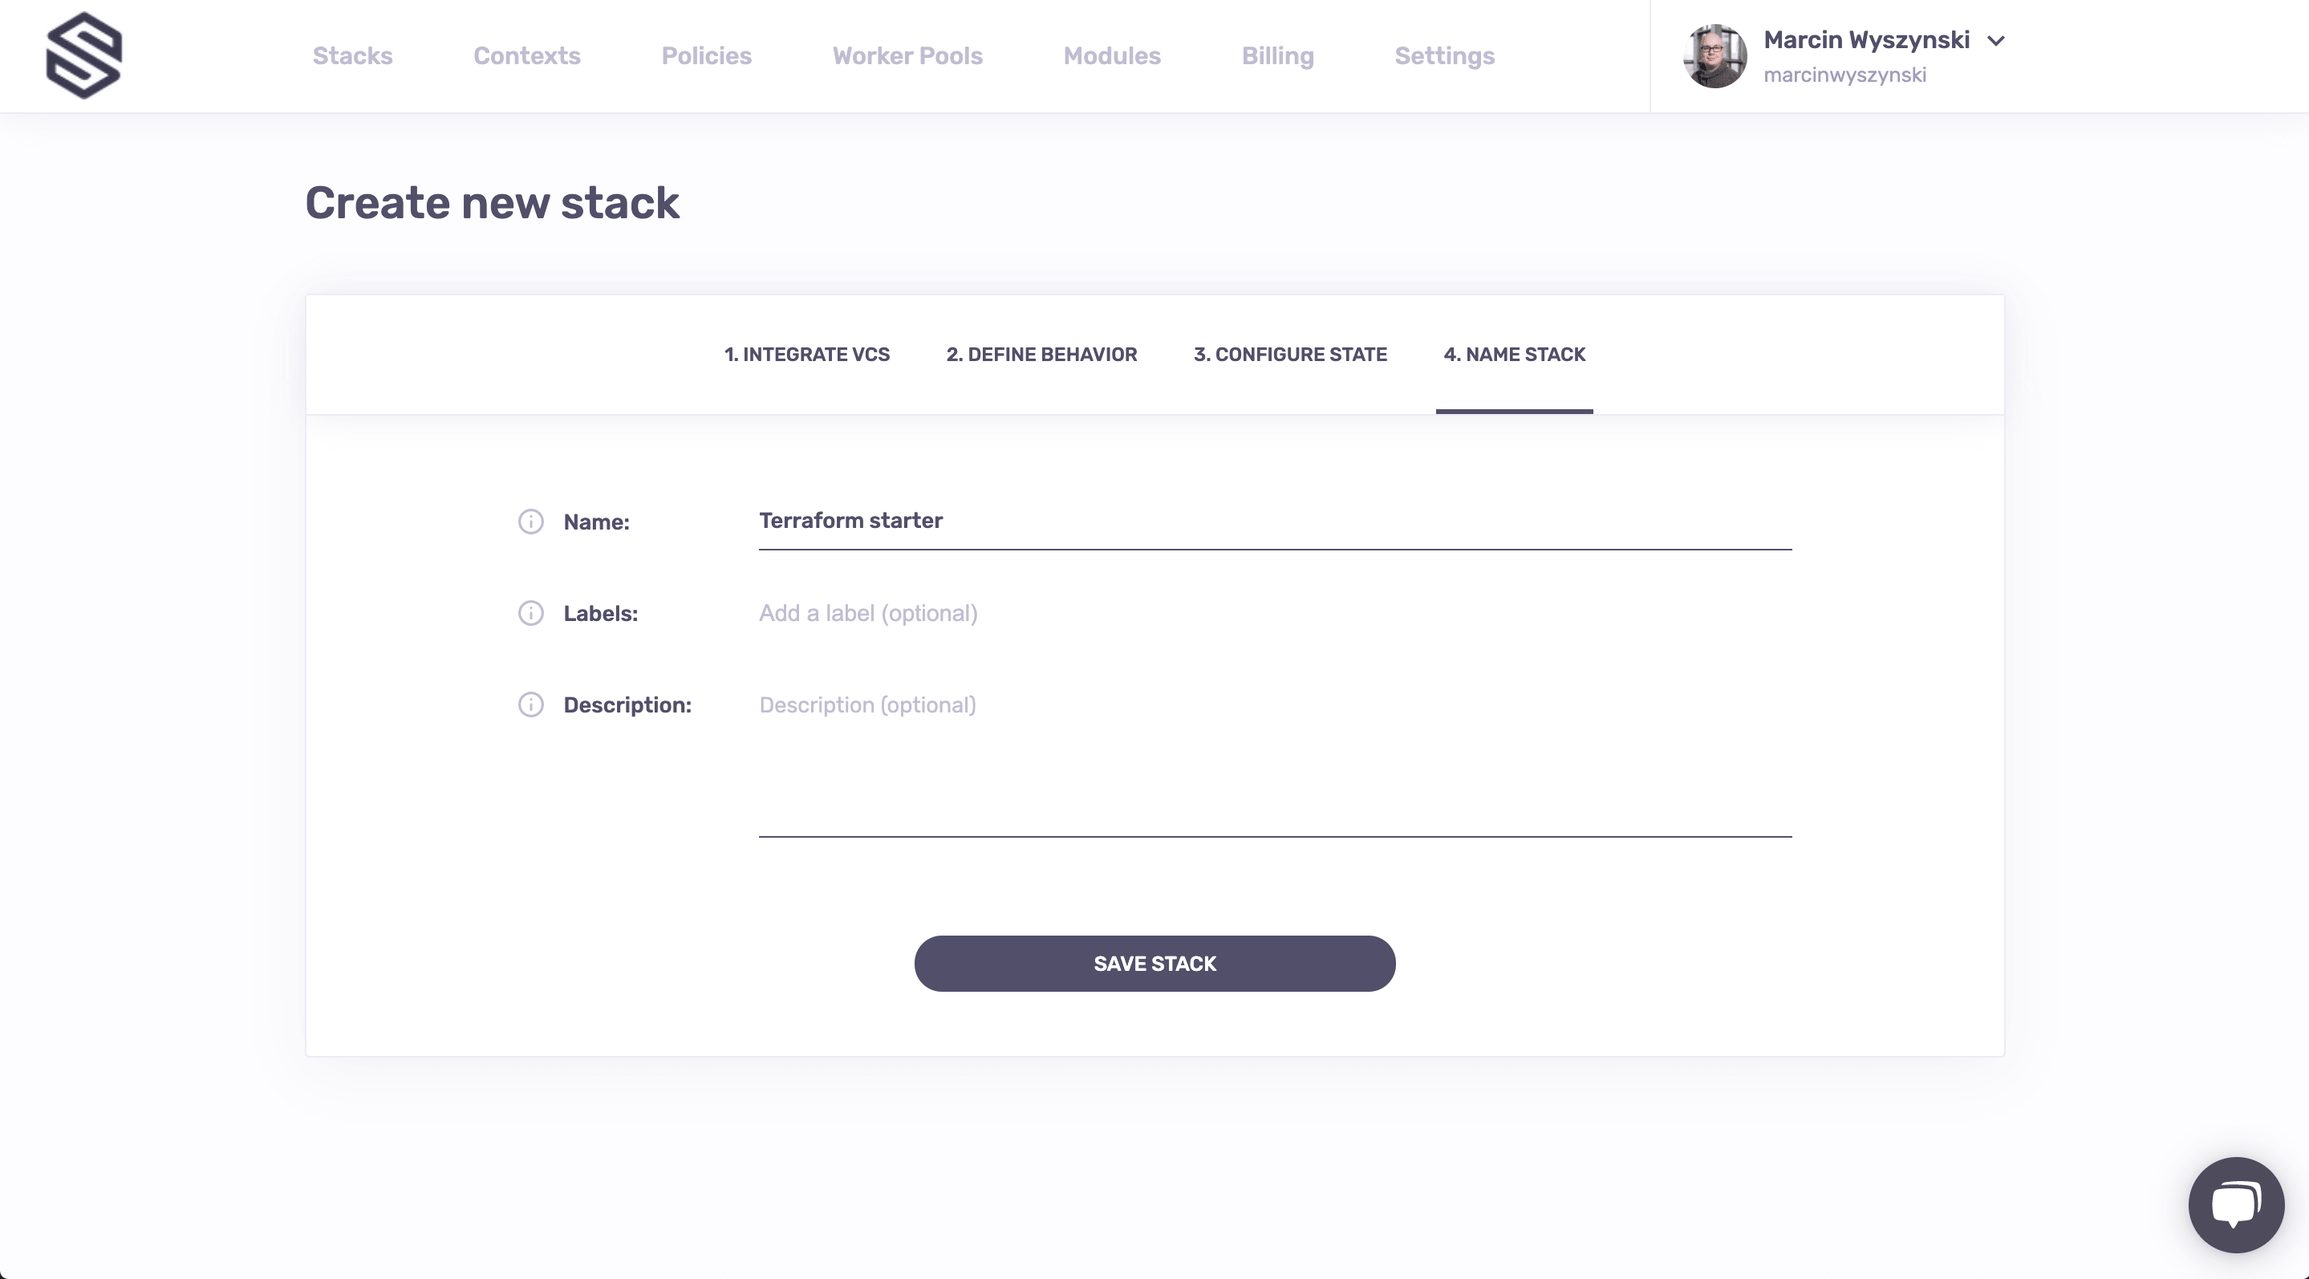
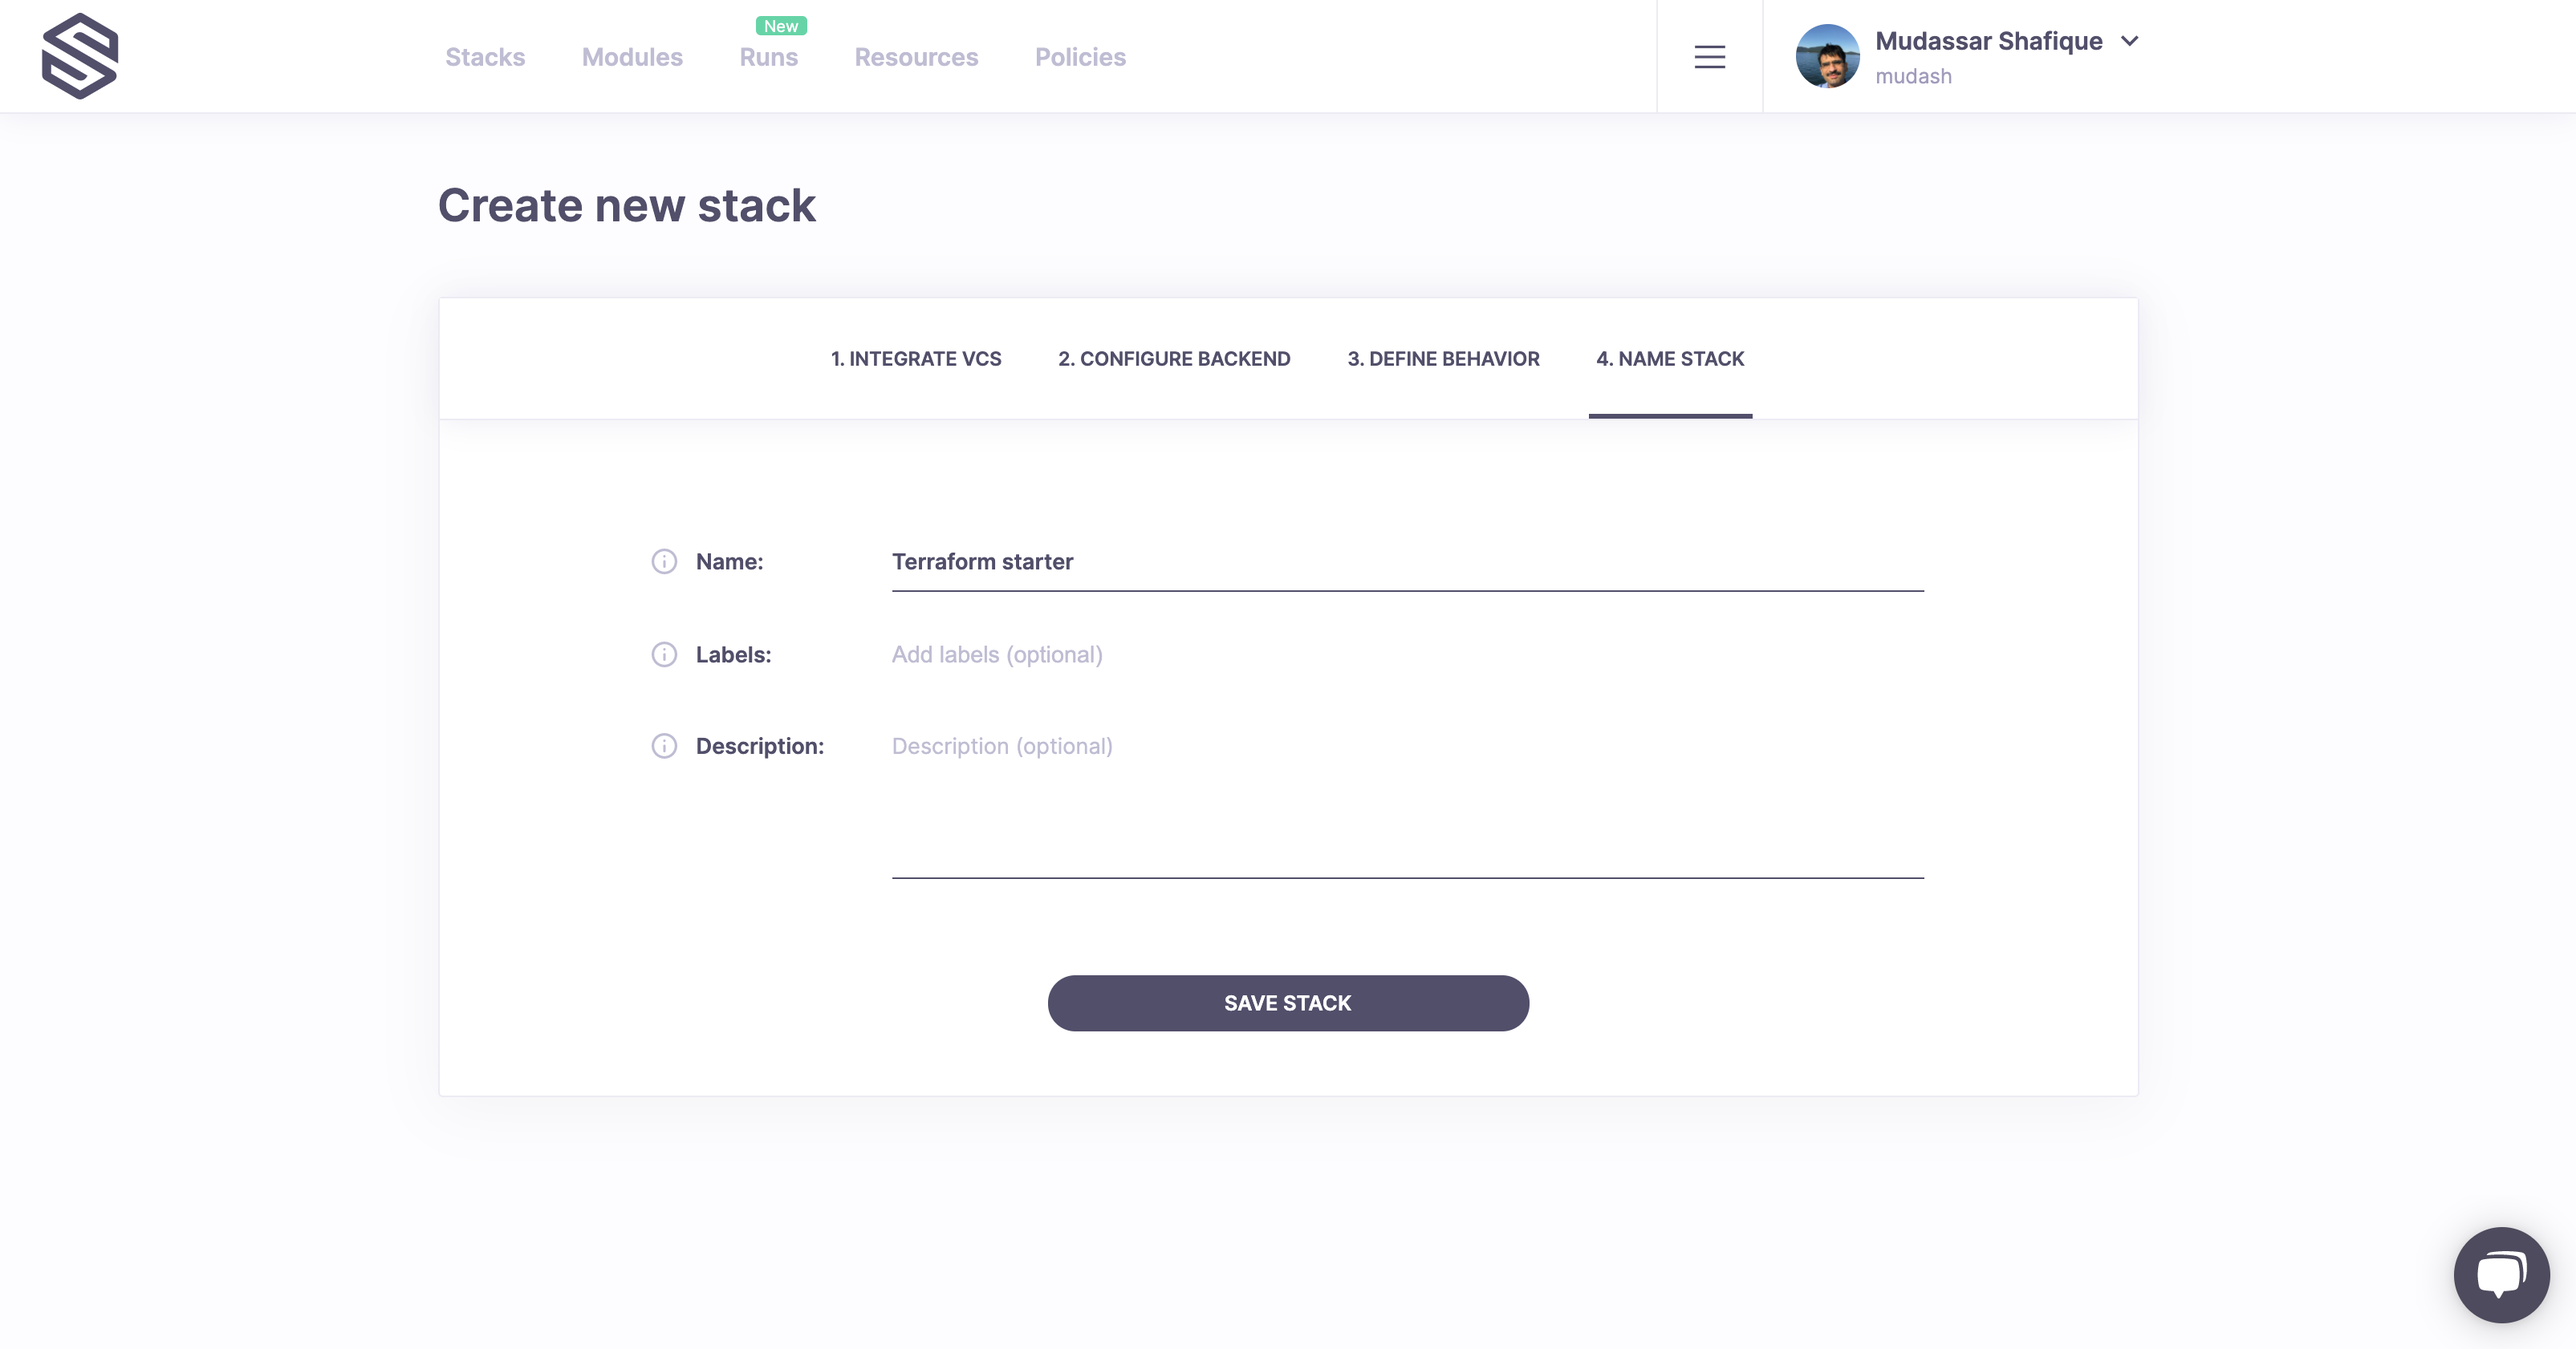
Updates to match the latest version of the product

diff --git a/README.md b/README.md
@@ -31,17 +31,17 @@ So without further ado, let's go through the stack creation process step by step
 
 ![Integrating VCS](pics/03-integrate-vcs-min.png)
 
+### Configure Backend
+
+In the next step we will choose the backend to use with Spacelift. I am selecting Terraform with a recent version for this tutorial. Spacelift can work with remote state providers but it also provides its own state management - though beyond convenience there are no benefits to using it. We don't have an existing state to import, so we do the most convenient thing there is - continue the defaults:
+
+![Configuring backend](pics/04-configure-backend-min.png)
+
 ### Stack behavior
 
 In the next step you will define some things about this stack's behavior. Since this is meant to be a quick and snappy tutorial we won't go into the details, but you can read more about them [here](https://docs.spacelift.io/concepts/stack). For now the only tweak we need to do here is to mark the stack as [administrative](https://docs.spacelift.io/concepts/stack#administrative). Why? Because only administrative stacks can manage Spacelift resources and that's what we'll be creating as part of this lab.
 
-![Defining behavior](pics/04-define-behavior-min.png)
-
-### Managing state
-
-The next step is all about managing [Terraform state](https://www.terraform.io/docs/state/index.html). Spacelift can work with any remote state provider but it also provides its own state backend - though beyond convenience there are no benefits to using it. We don't have an existing state to import, so we do the most convenient thing there is - continue the defaults:
-
-![Configuring state](pics/05-configure-state-min.png)
+![Defining behavior](pics/05-define-behavior-min.png)
 
 ### Naming the stack
 
@@ -61,11 +61,11 @@ Let's add some color here. We can do that by clicking the _Trigger_ button in th
 
 ![Confirm or discard](pics/08-confirm-or-discard-min.png)
 
-You can always refer to the logs directly to see what's changing. In this case, we're creating 24 Spacelift resources, and they all look good. So let's confirm and see what happens next:
+You can always refer to the logs directly to see what's changing. In this case, we're creating 25 Spacelift resources, and they all look good. So let's confirm and see what happens next:
 
 ![Changes applied](pics/09-changes-applied-min.png)
 
-Wow, 6 seconds? That was quick! Let's go back to our main (Stacks) screen to see what we've just done.
+Wow, 10 seconds? That was quick! Let's go back to our main (Stacks) screen to see what we've just done, clicking on the Spacelift logo on top left will take you there.
 
 ## Step 4: Exploring created resources
 
@@ -77,7 +77,7 @@ And yes, it's red. Yes, it's normally a bad sign. And yes, this is expected - on
 
 ### Environment
 
-Now where did _that_ come from? In fact, we had it declared it using Terraform, just [here](./stack.tf). The same file defines a bunch of things related to the environment, so let's click on the name of the new stack to be taken to its screen. Since it doesn't contain anything interesting just yet, let's quickly navigate to the _Environment_ screen. And it's indeed a very busy screen, so let's just look at the first section there:
+Now where did _that_ come from? In fact, we had it declared using Terraform, just [here](./stack.tf). The same file defines a bunch of things related to the environment, so let's click on the name of the new stack to be taken to its screen. Since it doesn't contain anything interesting just yet, let's quickly navigate to the _Environment_ screen. And it's indeed a very busy screen, so let's just look at the first section there:
 
 ![Environment](pics/11-environment-min.png)
 
@@ -87,7 +87,7 @@ But before we move on to the context, click the _Edit_ button in the upper right
 
 ### Context
 
-[Contexts](https://docs.spacelift.io/concepts/context) are how Spacelift does configuration reuse. Rather than having to copy and paste a bunch of configuration variables, Spacelift allows you to encapsulate them as a package and [attach](https://docs.spacelift.io/concepts/context#attaching-and-detaching) them to as many stacks as you want. So if you navigate back to the main screen (hint: click on the logo, it normally works like that single button on your iPhone) and then go to the Contexts screen, that's what you're going to see:
+[Contexts](https://docs.spacelift.io/concepts/context) are how Spacelift does configuration reuse. Rather than having to copy and paste a bunch of configuration variables, Spacelift allows you to encapsulate them as a package and [attach](https://docs.spacelift.io/concepts/context#attaching-and-detaching) them to as many stacks as you want. So if you navigate back to the main screen (hint: click on the logo, it normally works like that single button on your iPhone) and then go to the Contexts screen selecting it from the hamburger menu next to your name, that's what you're going to see:
 
 ![Contexts](pics/12-contexts-min.png)
 
@@ -139,13 +139,17 @@ And here's the exact change we're making:
 
 ![Pull Request changes](pics/18-pull-request-changes-min.png)
 
-That little change causes two runs to be executed since this repo is now connected to two stacks - one that created manually and one that is managed programmatically. It's the latter stack we've made changes to, so you will see that there are no changes to the former but one resource would be created for the latter. Note that we report the same information in two ways - one (Atlantis-like) is a PR comment and the other one - [commit status checks](https://developer.github.com/v3/repos/statuses/). The good thing about the latter is GitHub allows you to block PR merges on failing commit status checks.
+That little change causes two runs to be executed since this repo is now connected to two stacks - one that created manually and one that is managed programmatically. It's the latter stack we've made changes to, so you will see that there are no changes to the former but one resource would be created for the latter. 
 
 ![Pull Request feedback](pics/19-pull-request-feedback-min.png)
 
-Clicking on the _Details_ link next to the commit status check takes you to the test run for the affected stack. Let's click on that and see what gives:
+Clicking on the _Details_ link next to the commit status check takes you to the test run for the affected stack. 
 
-![Test run](pics/20-test-run-min.png)
+![PR details](pics/20-pull-request-preview-min.png)
+
+Let's click on preview and see what gives under PRs tab for the managed stack:
+
+![PR details](pics/21-pull-request-run-min.png)
 
 Now that the push policy is happy with the new length of your password, you can merge the Pull Request to the _main_ branch. A run will be created automatically in the _Runs_ tab of your _Managed stack_ which should apply the changes automatically (see the `autoapply` setting in [`stack.tf`](./stack.tf)):
 
